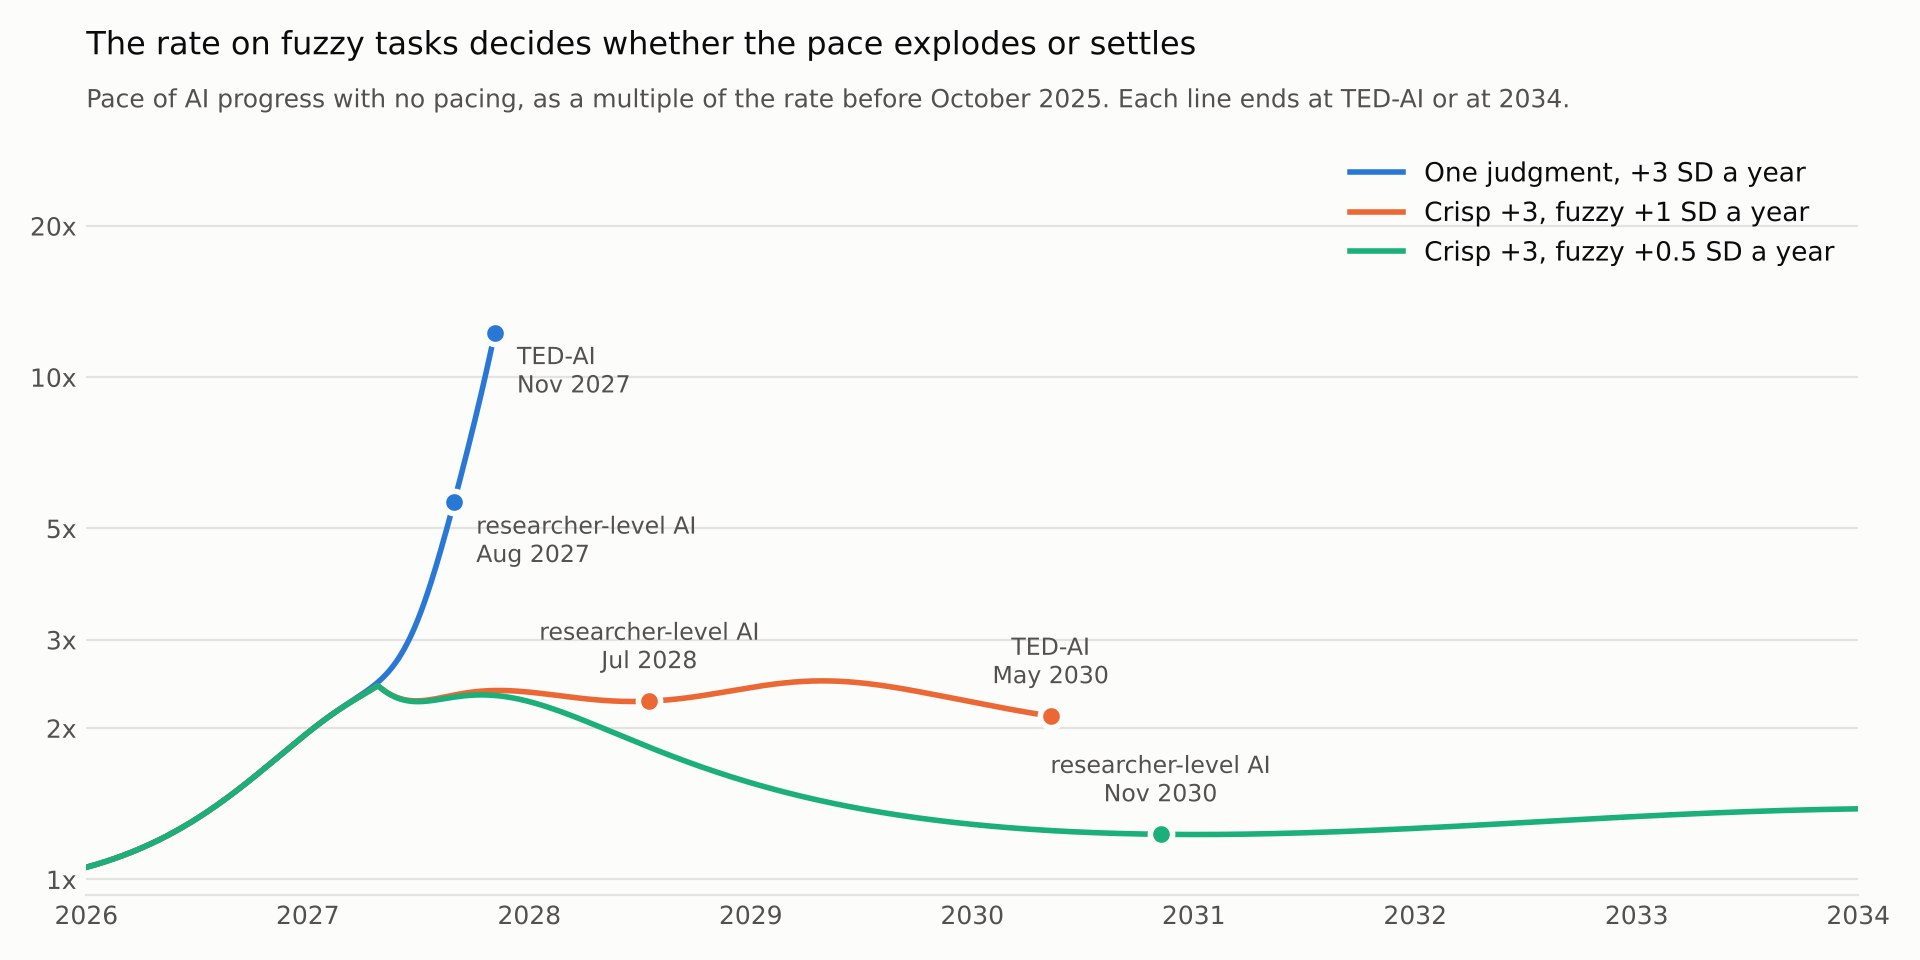
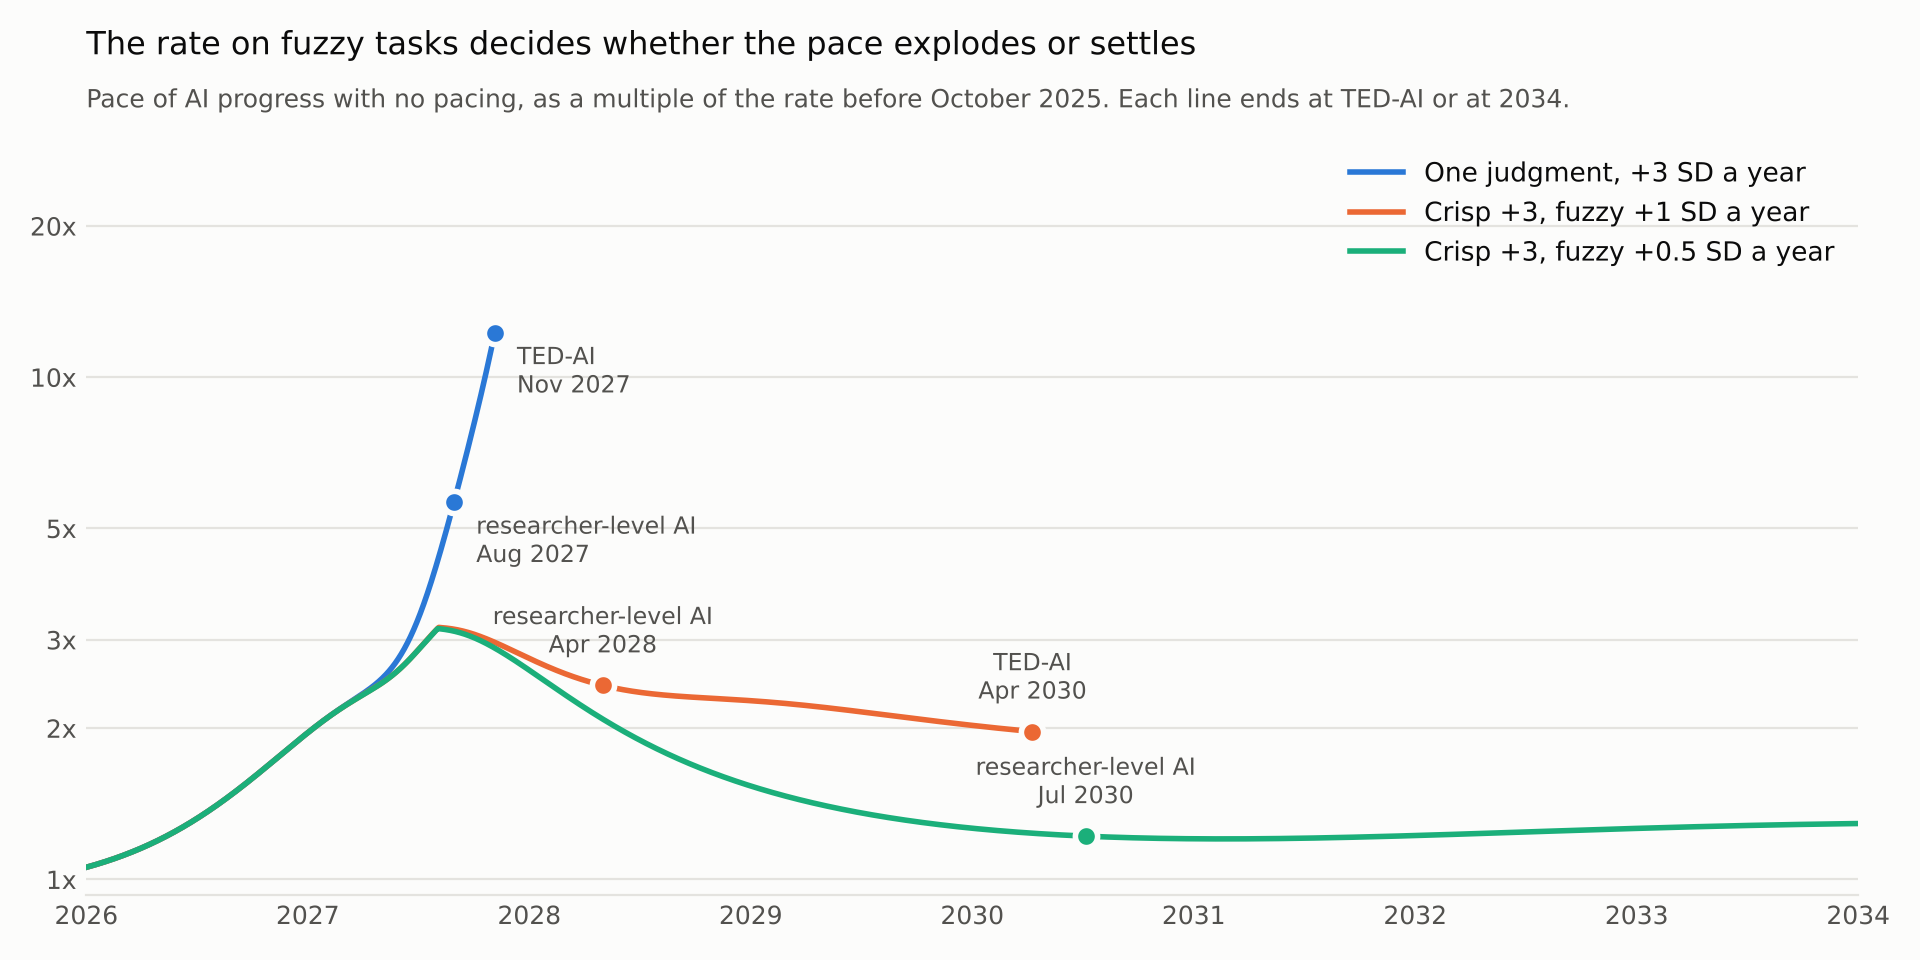
Set supervision of work that needs a person to 0.5% of the work
The PI's estimate is half an hour of a person's day for each running
session, which is 0.5% to 0.8% of the work at the speed in Anthropic's
example. It replaces the 4% borrowed from AI-led work. The simple model and
its table and figures are updated. The full models' tables and the
briefing's figures are still at 4% until their reruns finish.

Claude-Session: https://claude.ai/code/session_01FEzx7rBG83QTfvYZehGYHo

Changed region(s): [[0.1875, 0.625, 0.9688, 0.875], [0.375, 0.8125, 0.4375, 0.8438], [0.3438, 0.7812, 0.375, 0.8125]]

diff --git a/pacing-takeoff-model/aifm_adapter.py b/pacing-takeoff-model/aifm_adapter.py
@@ -210,9 +210,9 @@ class Aifm:
         self.changes = None  # deployed-change counts, set by use_calibration
         self.link = None  # the comprehension-to-judgment link, set by use_calibration
         self.residue = 0.0  # share of work that needs a person today, set by use_calibration
-        # Two settings for sensitivity runs, set by set_residue. Human time on work that needs
-        # a person, as a multiple of the time on AI-led work. And the SD of AI judgment gained
-        # per halving of that work; 0 ties it to the share of researchers ahead of the AI.
+        # Human time on work that needs a person, as a multiple of the time on AI-led work,
+        # set by use_calibration. And the SD of AI judgment gained per halving of that work,
+        # for sensitivity runs; 0 ties it to the share of researchers ahead of the AI.
         self.residue_supervision = 1.0
         self.residue_halving = 0.0
 
@@ -220,8 +220,10 @@ class Aifm:
         self, cal: dict, link: bool | Link = False, residue: bool | float = False
     ) -> None:
         self.changes = gate_from_calibration(cal)
-        self.residue = (
-            float(cal["real_research"]["residue_today"]) if residue is True else float(residue)
+        rr = cal["real_research"]
+        self.residue = float(rr["residue_today"]) if residue is True else float(residue)
+        self.residue_supervision = (
+            rr["residue_supervision_time"] / cal["human_time_per_unit_work"]["al4"]
         )
         self.link = link_from_calibration(cal) if link is True else (link or None)
         if self.link is not None:
@@ -298,11 +300,14 @@ class Aifm:
             + p.ai_research_taste_at_coding_automation_anchor_sd
         )
 
-    def set_residue(self, share: float, supervision: float = 1.0, halving_sd: float = 0.0) -> None:
+    def set_residue(
+        self, share: float, supervision: float | None = None, halving_sd: float = 0.0
+    ) -> None:
         """Override the share of work that needs a person and how it behaves. Call after
-        use_calibration."""
+        use_calibration. `supervision` left as None keeps the calibrated value."""
         self.residue = float(share)
-        self.residue_supervision = float(supervision)
+        if supervision is not None:
+            self.residue_supervision = float(supervision)
         self.residue_halving = float(halving_sd)
 
     def judgment_sd(self, cap: float) -> float:

diff --git a/pacing-takeoff-model/residue_sensitivity.py b/pacing-takeoff-model/residue_sensitivity.py
@@ -1,10 +1,11 @@
 """How far the result on work that needs a person depends on its unmeasured inputs.
 
-The briefing starts with 14% of work needing a person, supervised at the time AI-led work
-takes, a share that falls with the share of researchers whose judgment is still better than
-the AI's. This script lists what three developers report on that share and reruns AI Futures'
-Nov 10 example trajectory with the starting share, the supervision time, the rule for how the
-share falls and the audit hours varied (calibration.yml, real_research.sensitivity).
+The briefing starts with 14% of work needing a person, supervised for 0.5% of the time the
+work would take a person, a share that falls with the share of researchers whose judgment is
+still better than the AI's. This script lists what three developers report on that share and
+reruns AI Futures' Nov 10 example trajectory with the starting share, the supervision time,
+the rule for how the share falls and the audit hours varied (calibration.yml,
+real_research.sensitivity).
 
 Writes results/tables_residue_sensitivity.md.
 """
@@ -28,15 +29,15 @@ def cases(cal: dict) -> dict[str, dict]:
     """Label -> arguments of Aifm.set_residue."""
     rr = cal["real_research"]
     today, sens = rr["residue_today"], rr["sensitivity"]
-    al4 = cal["human_time_per_unit_work"]["al4"]
+    al4, time = cal["human_time_per_unit_work"]["al4"], rr["residue_supervision_time"]
     out = {
         "No work needs a person": dict(share=0.0),
-        f"Central: {today:.0%} of work, supervised at {al4:.0%} of its time": dict(share=today),
+        f"Central: {today:.0%} of work, supervised at {time:.1%} of its time": dict(share=today),
     }
     for share in sens["residue_today"]:
         out[f"Starting share {share:.0%}"] = dict(share=share)
-    for mult in sens["supervision_multiple"]:
-        out[f"Supervised at {al4 * mult:.1%} of its time"] = dict(share=today, supervision=mult)
+    for other in sens["supervision_time"]:
+        out[f"Supervised at {other:.1%} of its time"] = dict(share=today, supervision=other / al4)
     for sd in sens["halving_sd"]:
         out[f"Share halves per {sd:g} SD of judgment the AI gains"] = dict(
             share=today, halving_sd=sd

diff --git a/pacing-takeoff-model/test_pacing_model.py b/pacing-takeoff-model/test_pacing_model.py
@@ -343,11 +343,14 @@ def test_work_that_needs_a_person_shrinks_as_ai_judgment_rises():
     assert m.needs_a_person(median + 3.0) < 0.05 * today
     held = m.summarize(m.simulate(Policy(), t_end=2029.0))
     assert held["t_sar"] >= free["t_sar"] - 1e-6
-    # Sensitivity settings: lighter supervision of that work sits between the two runs, and
-    # with a halving rule the share halves for each SD of judgment the AI gains.
-    m.set_residue(today, supervision=0.25)
-    light = m.summarize(m.simulate(Policy(), t_end=2029.0))
-    assert free["t_sar"] - 1e-6 <= light["t_sar"] <= held["t_sar"] + 1e-6
+    # A person's time on that work comes from the calibration, as a multiple of the time on
+    # AI-led work. Heavier supervision delays the milestone more.
+    central = CAL["real_research"]["residue_supervision_time"]
+    assert abs(m.residue_supervision - central / CAL["human_time_per_unit_work"]["al4"]) < 1e-9
+    m.set_residue(today, supervision=4.0 * m.residue_supervision)
+    heavy = m.summarize(m.simulate(Policy(), t_end=2029.0))
+    assert free["t_sar"] - 1e-6 <= held["t_sar"] <= heavy["t_sar"] + 1e-6
+    # With a halving rule the share halves for each SD of judgment the AI gains.
     m.set_residue(today, halving_sd=1.0)
     one_sd = 1.0 / m.params.ai_research_taste_slope
     assert abs(m.needs_a_person(cap) - today) < 1e-9

diff --git a/pacing-takeoff-model/montecarlo_taste.py b/pacing-takeoff-model/montecarlo_taste.py
@@ -320,6 +320,12 @@ def real_research_note(meta: dict) -> str:
         out += (
             f" {meta['residue']:.0%} of work needs a person on Nov 1, 2026, and that share falls "
             "with the share of researchers whose judgment is still better than the AI's."
+            + (
+                f" A person spends {meta['residue_supervision_time']:.1%} of that work's time "
+                "supervising it."
+                if "residue_supervision_time" in meta
+                else ""
+            )
         )
     return out
 
@@ -802,7 +808,9 @@ def main() -> None:
     if args.supervision != "anthropic":
         meta["supervision"] = args.supervision
     if args.residue:
-        meta["residue"] = pm.load_calibration()["real_research"]["residue_today"]
+        rr = pm.load_calibration()["real_research"]
+        meta["residue"] = rr["residue_today"]
+        meta["residue_supervision_time"] = rr["residue_supervision_time"]
     if "share" in split:
         meta["crisp_share"] = split["share"]
     if "substitution" in split:

diff --git a/pacing-takeoff-model/test_simple_model.py b/pacing-takeoff-model/test_simple_model.py
@@ -82,11 +82,12 @@ def test_fuzzy_rate_matters_more_than_crisp_rate():
     assert slower_fuzzy - base > 5.0
 
 
-def test_residue_matters_only_where_fuzzy_judgment_is_slow():
-    for p, low, high in ((ONE_FAST, -0.01, 0.1), (SPLIT, 0.15, 1.0)):
+def test_residue_delays_more_the_slower_fuzzy_judgment_improves():
+    def delay(p):
         with_residue = simulate(p)["dates"]["researcher"]
-        without = simulate(replace(p, residue=0.0))["dates"]["researcher"]
-        assert low < with_residue - without < high
+        return with_residue - simulate(replace(p, residue=0.0))["dates"]["researcher"]
+
+    assert abs(delay(ONE_FAST)) < 0.02 < delay(SPLIT) < delay(SLOW)
 
 
 def test_a_lag_delays_by_about_its_length_where_judgment_is_fast():

diff --git a/pacing-takeoff-model/simple_model.py b/pacing-takeoff-model/simple_model.py
@@ -64,7 +64,7 @@ class Params:
     substitution: float = 0.25  # how well crisp work stands in for fuzzy work. 1 is neutral
     value_per_sd: float = 0.445  # log research value of one SD of judgment
     residue: float = 0.14  # share of work that needs a person on Nov 1, 2026
-    supervision_time: float = 0.04  # a person's time on that work, as a share of doing it
+    supervision_time: float = 0.005  # a person's time on that work, as a share of doing it
     # 4. Understanding
     understanding_today: float = 0.14  # share of researcher time spent understanding changes
     change_growth: float = 0.4  # percent more deployed changes per percent more AI labor

diff --git a/pacing-takeoff-model/real_research_effect.py b/pacing-takeoff-model/real_research_effect.py
@@ -160,7 +160,8 @@ def main() -> None:
         "",
         "The link from comprehension to human judgment is on. Pacing starts Jan 1, 2027. With the "
         f"residue, {rr['residue_today']:.0%} of work needs a person on Nov 1, 2026, and that share "
-        "falls with the share of researchers whose judgment is still better than the AI's.",
+        "falls with the share of researchers whose judgment is still better than the AI's. A "
+        f"person spends {rr['residue_supervision_time']:.1%} of that work's time supervising it.",
         "",
     ]
     for spec in taste_models(cal):

diff --git a/pacing-takeoff-model/SIMPLE.md b/pacing-takeoff-model/SIMPLE.md
@@ -59,20 +59,20 @@ Dates with no pacing, and the delay each policy adds, from `results/tables_simpl
 
 | | One judgment, +3 SD | Crisp +3, fuzzy +1 SD | Crisp +3, fuzzy +0.5 SD |
 |---|---|---|---|
-| Researcher-level AI, no pacing | Aug 2027 | Jul 2028 | Nov 2030 |
-| TED-AI, no pacing | Nov 2027 | May 2030 | Oct 2037 |
-| Central audits delay TED-AI | +1 mo | +7 mo | +11 mo |
-| Strict audits delay TED-AI | +3 mo | +10 mo | +14 mo |
+| Researcher-level AI, no pacing | Aug 2027 | Apr 2028 | Jul 2030 |
+| TED-AI, no pacing | Nov 2027 | Apr 2030 | Oct 2037 |
+| Central audits delay TED-AI | +1 mo | +10 mo | +15 mo |
+| Strict audits delay TED-AI | +3 mo | +13 mo | +18 mo |
 | 3-month lag delays TED-AI | +6 mo | +3 mo | +1 mo |
-| 9-month lag delays TED-AI | +12 mo | +10 mo | +3 mo |
+| 9-month lag delays TED-AI | +12 mo | +9 mo | +3 mo |
 | 3-fold compute cut delays TED-AI | +4 mo | +6 mo | +6 mo |
 
-- **The rate on fuzzy tasks decides the dates.** Halving it moves TED-AI by seven years. Lowering the crisp rate from 3 to 2.1 SD moves it by three months.
-- **Audits barely move researcher-level AI.** They delay it by about a month in each of these cases. The gate starts to bind only about when that level arrives.
-- **Where judgment improves fast, audits buy a month and a lag buys more than its length.** The loop runs away, so a fixed setback is worth more calendar time the later it is made up.
-- **Where fuzzy judgment is slow, audits buy 7 to 11 months here.** The full models put that at 2 to 3 months. The next section says why, and which to believe.
-- **How fast deployed changes grow with AI labor decides the audit result.** At 0.2% more changes per 1% more labor, central audits delay TED-AI by 1 month in the middle case. At 0.6% they delay it by 14. Nobody has measured this number.
-- **Work that needs a person and audits act on the same margin.** Without the 14% of work that needs a person, the middle case reaches researcher-level AI four months sooner, and central audits would delay TED-AI by 21 months, against 7 with it. Where the work itself keeps people in the loop, audits add less.
+- **The rate on fuzzy tasks decides the dates.** Halving it moves TED-AI by more than seven years. Lowering the crisp rate from 3 to 2.1 SD moves it by three months.
+- **Audits barely move researcher-level AI.** They delay it by a month or two in each of these cases. The gate starts to bind only about when that level arrives.
+- **Where judgment improves fast, audits buy a month.** The loop runs away on judgment, and people's time to understand what is deployed stops mattering within months.
+- **Where fuzzy judgment is slow, audits buy 10 to 15 months here.** The next section compares that with the full models.
+- **How fast deployed changes grow with AI labor decides the audit result.** At 0.2% more changes per 1% more labor, central audits delay TED-AI by 2 months in the middle case. At 0.6% they delay it by 20. Nobody has measured this number.
+- **Work that needs a person and audits act on the same margin.** Without the 14% of work that needs a person, central audits would delay TED-AI by 21 months in the middle case, against 10 with it. Where the work itself keeps people in the loop, audits add less.
 
 ## How it compares with the full models
 
@@ -121,7 +121,7 @@ Where they differ, the full model is the one to cite:
 | Weight of crisp work | 65% | Three anchors, none a measurement of it. See the full briefing |
 | Substitution between crisp and fuzzy work | 0.25 | Judgment |
 | Work that needs a person | 14% | OpenAI, tasks under 15 minutes, January to July 2026 |
-| A person's time on that work | 4% of doing it | Assumption |
+| A person's time on that work | 0.5% of doing it | The PI's estimate: half an hour a day for each running session, with a session doing 8 to 12 person-days of work in a day |
 | Time understanding deployed changes today | 14% | Assumption in the full model, from counts and hours per change |
 | Growth of deployed changes with AI labor | 0.4 | Assumption. Not measured |
 | Pareto index of a change's value | 1.8 | Read from one developer's description of compute multipliers |

diff --git a/pacing-takeoff-model/results/tables_simple.md b/pacing-takeoff-model/results/tables_simple.md
@@ -25,14 +25,14 @@ Pace once AI labor is at its ceiling: 1.7x.
 
 | Scenario | Researcher-level AI | Delay | TED-AI | Delay |
 |---|---|---|---|---|
-| No pacing | Oct 2030 |  | Apr 2033 |  |
-| Comprehension audits, light | Oct 2030 | +1 mo | Jun 2035 | +26 mo |
-| Comprehension audits, central | Dec 2030 | +2 mo | Sep 2035 | +30 mo |
-| Comprehension audits, strict | Mar 2031 | +5 mo | Jan 2036 | +33 mo |
-| Internal-use lag, 3 months | Dec 2030 | +2 mo | Jun 2033 | +2 mo |
-| Internal-use lag, 9 months | Mar 2031 | +6 mo | Nov 2033 | +7 mo |
-| R&D compute cut 3x | Apr 2031 | +6 mo | Oct 2033 | +6 mo |
-| Comprehension audits (central) + 9-month lag | May 2031 | +7 mo | Oct 2035 | +30 mo |
+| No pacing | Aug 2030 |  | Apr 2033 |  |
+| Comprehension audits, light | Sep 2030 | +2 mo | Jul 2035 | +27 mo |
+| Comprehension audits, central | Dec 2030 | +4 mo | Oct 2035 | +31 mo |
+| Comprehension audits, strict | Mar 2031 | +7 mo | Feb 2036 | +34 mo |
+| Internal-use lag, 3 months | Oct 2030 | +2 mo | Jun 2033 | +2 mo |
+| Internal-use lag, 9 months | Jan 2031 | +5 mo | Oct 2033 | +6 mo |
+| R&D compute cut 3x | Feb 2031 | +6 mo | Oct 2033 | +6 mo |
+| Comprehension audits (central) + 9-month lag | Mar 2031 | +7 mo | Dec 2035 | +32 mo |
 
 ### Crisp +3, fuzzy +1 SD a year
 
@@ -40,14 +40,14 @@ Pace once AI labor is at its ceiling: 1.7x.
 
 | Scenario | Researcher-level AI | Delay | TED-AI | Delay |
 |---|---|---|---|---|
-| No pacing | Jul 2028 |  | May 2030 |  |
-| Comprehension audits, light | Jul 2028 | +0 mo | Sep 2030 | +4 mo |
-| Comprehension audits, central | Aug 2028 | +1 mo | Dec 2030 | +7 mo |
-| Comprehension audits, strict | Sep 2028 | +2 mo | Mar 2031 | +10 mo |
-| Internal-use lag, 3 months | Oct 2028 | +3 mo | Aug 2030 | +3 mo |
-| Internal-use lag, 9 months | Jan 2029 | +6 mo | Feb 2031 | +10 mo |
-| R&D compute cut 3x | Dec 2028 | +5 mo | Nov 2030 | +6 mo |
-| Comprehension audits (central) + 9-month lag | Feb 2029 | +7 mo | Apr 2031 | +11 mo |
+| No pacing | Apr 2028 |  | Apr 2030 |  |
+| Comprehension audits, light | May 2028 | +0 mo | Nov 2030 | +7 mo |
+| Comprehension audits, central | Jun 2028 | +1 mo | Feb 2031 | +10 mo |
+| Comprehension audits, strict | Aug 2028 | +3 mo | May 2031 | +13 mo |
+| Internal-use lag, 3 months | Aug 2028 | +3 mo | Jul 2030 | +3 mo |
+| Internal-use lag, 9 months | Dec 2028 | +7 mo | Jan 2031 | +9 mo |
+| R&D compute cut 3x | Sep 2028 | +5 mo | Oct 2030 | +6 mo |
+| Comprehension audits (central) + 9-month lag | Jan 2029 | +8 mo | Apr 2031 | +12 mo |
 
 ### Crisp +3, fuzzy +0.5 SD a year
 
@@ -55,12 +55,12 @@ Pace once AI labor is at its ceiling: 1.3x.
 
 | Scenario | Researcher-level AI | Delay | TED-AI | Delay |
 |---|---|---|---|---|
-| No pacing | Nov 2030 |  | Oct 2037 |  |
-| Comprehension audits, light | Nov 2030 | +0 mo | Jun 2038 | +7 mo |
-| Comprehension audits, central | Dec 2030 | +1 mo | Sep 2038 | +11 mo |
-| Comprehension audits, strict | Feb 2031 | +3 mo | Jan 2039 | +14 mo |
-| Internal-use lag, 3 months | Dec 2030 | +1 mo | Nov 2037 | +1 mo |
-| Internal-use lag, 9 months | Jan 2031 | +3 mo | Jan 2038 | +3 mo |
-| R&D compute cut 3x | May 2031 | +6 mo | May 2038 | +6 mo |
-| Comprehension audits (central) + 9-month lag | Feb 2031 | +4 mo | Sep 2038 | +10 mo |
+| No pacing | Jul 2030 |  | Oct 2037 |  |
+| Comprehension audits, light | Jul 2030 | +1 mo | Sep 2038 | +11 mo |
+| Comprehension audits, central | Aug 2030 | +2 mo | Jan 2039 | +15 mo |
+| Comprehension audits, strict | Nov 2030 | +4 mo | Apr 2039 | +18 mo |
+| Internal-use lag, 3 months | Aug 2030 | +1 mo | Nov 2037 | +1 mo |
+| Internal-use lag, 9 months | Oct 2030 | +3 mo | Jan 2038 | +3 mo |
+| R&D compute cut 3x | Jan 2031 | +6 mo | Apr 2038 | +6 mo |
+| Comprehension audits (central) + 9-month lag | Nov 2030 | +5 mo | Dec 2038 | +14 mo |
 
